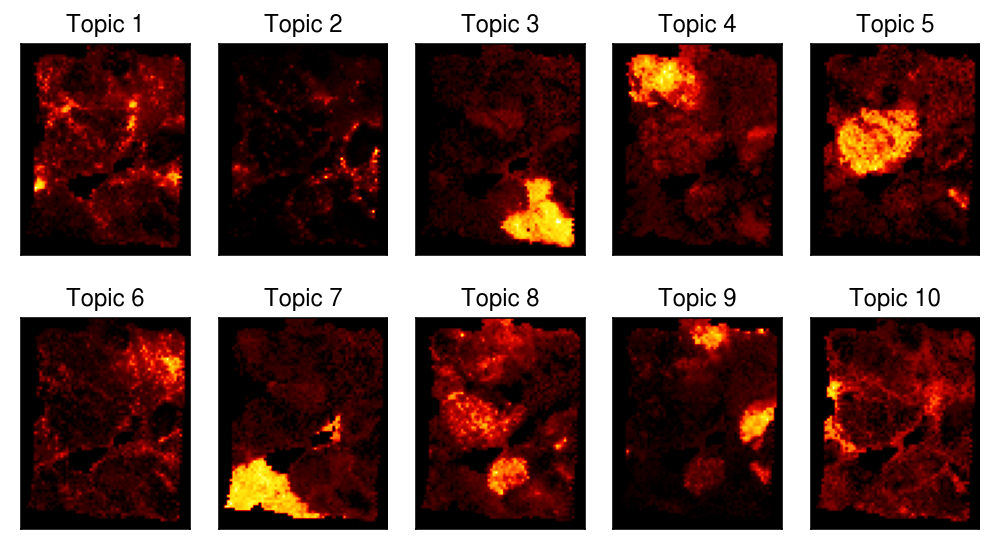
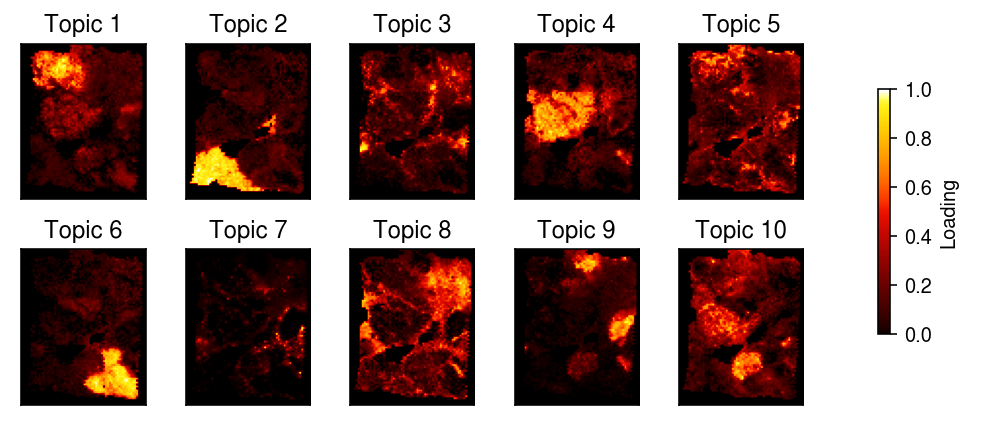
Update visium analysis

diff --git a/docs/spatial-gom.html b/docs/spatial-gom.html
@@ -1,7 +1,7 @@
 <!DOCTYPE html>
 <html lang="en">
 <head>
-<!-- 2021-04-22 Thu 10:55 -->
+<!-- 2021-05-30 Sun 16:20 -->
 <meta charset="utf-8">
 <meta name="viewport" content="width=device-width, initial-scale=1">
 <title>GOM model for spatial transcriptomic data</title>
@@ -270,6 +270,7 @@ al. 2019</a>).
 <pre class="src src-ipython"><span class="org-keyword">import</span> anndata
 <span class="org-keyword">import</span> numpy <span class="org-keyword">as</span> np
 <span class="org-keyword">import</span> pandas <span class="org-keyword">as</span> pd
+<span class="org-keyword">import</span> pickle
 <span class="org-keyword">import</span> scanpy <span class="org-keyword">as</span> sc
 <span class="org-keyword">import</span> scipy.sparse <span class="org-keyword">as</span> ss
 <span class="org-keyword">import</span> scipy.stats <span class="org-keyword">as</span> st
@@ -295,6 +296,7 @@ rpy2.robjects.pandas2ri.activate()
 
 <div class="org-src-container">
 <pre class="src src-ipython"><span class="org-keyword">import</span> colorcet
+<span class="org-keyword">import</span> matplotlib
 <span class="org-keyword">import</span> matplotlib.pyplot <span class="org-keyword">as</span> plt
 <span class="org-variable-name">plt.rcParams</span>[<span class="org-string">'figure.facecolor'</span>] = <span class="org-string">'w'</span>
 <span class="org-variable-name">plt.rcParams</span>[<span class="org-string">'font.family'</span>] = <span class="org-string">'Nimbus Sans'</span>
@@ -323,7 +325,7 @@ dat
 </div>
 
 <pre class="example">
-View of AnnData object with n_obs × n_vars = 3798 × 24865
+AnnData object with n_obs × n_vars = 3798 × 24923
 obs: 'barcode', 'in_tissue', 'row', 'col', 'pxl_row', 'pxl_col'
 var: 'gene', 'name', 'featuretype', 'n_cells'
 </pre>
@@ -341,19 +343,37 @@ Fit a topic model, ignoring spatial information.
 </div>
 
 <p>
+Write out the fitted model.
+</p>
+
+<div class="org-src-container">
+<pre class="src src-ipython"><span class="org-keyword">with</span> <span class="org-builtin">open</span>(<span class="org-string">'/scratch/midway2/aksarkar/singlecell/visium-k-10-topic-model.pkl'</span>, <span class="org-string">'wb'</span>) <span class="org-keyword">as</span> f:
+  pickle.dump(res, f)
+</pre>
+</div>
+
+<p>
 Look at the loadings on each topic, spatially organized.
 </p>
 
 <div class="org-src-container">
 <pre class="src src-ipython">plt.clf()
-<span class="org-variable-name">fig</span>, <span class="org-variable-name">ax</span> = plt.subplots(2, 5, sharex=<span class="org-constant">True</span>, sharey=<span class="org-constant">True</span>)
-fig.set_size_inches(7, 4)
-<span class="org-keyword">for</span> k, a <span class="org-keyword">in</span> <span class="org-builtin">enumerate</span>(ax.ravel()):
+<span class="org-variable-name">fig</span>, <span class="org-variable-name">ax</span> = plt.subplots(2, 6, sharex=<span class="org-constant">True</span>, sharey=<span class="org-constant">True</span>)
+fig.set_size_inches(7, 3)
+<span class="org-keyword">for</span> k, a <span class="org-keyword">in</span> <span class="org-builtin">enumerate</span>(ax[:,:5].ravel()):
   <span class="org-variable-name">temp</span> = ss.coo_matrix((res.rx2(<span class="org-string">'L'</span>)[:,k], (dat.obs[<span class="org-string">'row'</span>], dat.obs[<span class="org-string">'col'</span>] // 2)), shape=(80, 64))
   a.imshow(temp.A, cmap=colorcet.cm[<span class="org-string">'fire'</span>])
   a.set_title(f<span class="org-string">'Topic {k + 1}'</span>)
   a.set_xticks([])
   a.set_yticks([])
+<span class="org-keyword">for</span> a <span class="org-keyword">in</span> ax[:,5]:
+  a.axis(<span class="org-string">'off'</span>)
+<span class="org-variable-name">cb</span> = fig.colorbar(matplotlib.cm.ScalarMappable(norm=matplotlib.colors.Normalize(vmin=0, vmax=1),
+                                               cmap=colorcet.cm[<span class="org-string">'fire'</span>]),
+                  ax=ax[:,5].ravel(),
+                  anchor=(0, 0.5),
+                  shrink=0.75)
+cb.set_label(<span class="org-string">'Loading'</span>)
 fig.tight_layout()
 </pre>
 </div>
@@ -369,42 +389,110 @@ Look at the top (highest probability) genes in each topic.
 </p>
 
 <div class="org-src-container">
-<pre class="src src-ipython">pd.DataFrame({k: dat.var.iloc[np.argsort(-res.rx2(<span class="org-string">'F'</span>)[:,k])[:10]][<span class="org-string">'name'</span>].values <span class="org-keyword">for</span> k <span class="org-keyword">in</span> <span class="org-builtin">range</span>(10)})
+<pre class="src src-ipython"><span class="org-variable-name">freq_genes</span> = pd.DataFrame({k: dat.var.iloc[np.argsort(-res.rx2(<span class="org-string">'F'</span>)[:,k])[:10]][<span class="org-string">'name'</span>].values <span class="org-keyword">for</span> k <span class="org-keyword">in</span> <span class="org-builtin">range</span>(10)})
+freq_genes
 </pre>
 </div>
 
 <pre class="example">
-0      1        2        3       4       5        6      7       8  \
-0     CD74   IGKC   IGFBP5    COX6C   COX6C  COL1A1    RPL41  COX6C     MGP
-1      FTL  IGHG3    RPL41    RPL41   KRT19  COL1A2     KRT8    B2M   RPL41
-2      B2M  IGHG4     KRT8     KRT8   RPL41     FN1    RPLP1  HLA-B  IGFBP5
-3     APOE  IGLC2    COX6C    KRT19  IGFBP5    ACTB    KRT18  HLA-A   KRT19
-4   TMSB10  IGHG1    RPLP1    RPL30    CPB1   SPARC    KRT19  IFI27   GAPDH
-5    RPL41  IGHA1    KRT18      MIF  TMSB10  MALAT1  S100A11  KRT19   RPL30
-6   TMSB4X  IGLC1     FTH1    SERF2   ACTG1  IGFBP7    RPL13   IFI6    TFF3
-7    HLA-B   IGHM  S100A11    RPLP1   RPL30     B2M    RPL30  HLA-C    FTH1
-8  HLA-DRA  IGLC3    KRT19    ACTG1   RPLP1  COL3A1     FTH1  ISG15  S100A6
-9    HLA-A  RPLP1    RPL30  SLC39A6   RPL13   RPLP1     MUC1   FTH1     MIF
+0        1       2       3        4        5       6       7       8  \
+0    COX6C    RPL41    CD74   COX6C   MT-CO1   IGFBP5    IGKC  MT-CO3     MGP
+1   MT-CO1     KRT8     FTL   KRT19   MT-CO3     KRT8   IGHG3     FTL  IGFBP5
+2    RPL41    RPLP1     B2M   RPL41   MT-CO2    RPL41   IGHG4  COL1A1   RPL41
+3     KRT8    RPS27  TMSB10  IGFBP5  MT-ATP6    COX6C   IGLC2   KRT19   KRT19
+4    KRT19    KRT18   RPL41    CPB1   MT-ND4    RPS27   IGHG1  COL1A2   COX6C
+5   MT-ND1    KRT19    APOE  TMSB10   MT-ND3    KRT18   IGHA1   RPLP1   GAPDH
+6    SERF2  S100A11  TMSB4X   ACTG1   MT-ND1    RPLP1   IGLC1    KRT8   RPL30
+7  SLC39A6    RPL13   RPS27   RPL13   MT-CYB    KRT19    IGHM     MIF    TFF3
+8   MT-CO3     MUC1  EEF1A1   RPLP1   MT-ND2     FTH1   IGLC3   SERF2  MT-CO1
+9    ACTG1     FTH1    ACTB    KRT8    RPL41  S100A11  JCHAIN     FN1   RPS18
 
 9
-0  KRT19
-1    FTL
-2   KRT8
-3  RPLP1
-4    MIF
-5   APOE
-6  SERF2
-7  CRIP1
-8  RPL13
-9  RPL41
+0  COX6C
+1    B2M
+2  HLA-B
+3  HLA-A
+4  IFI27
+5  KRT19
+6   IFI6
+7   CD74
+8   FTH1
+9  HLA-C
 </pre>
+
+<p>
+Look at distinctive genes in each topic, i.e., genes with maximum minimum KL
+divergence from all other topics.
+</p>
+
+<div class="org-src-container">
+<pre class="src src-ipython"><span class="org-keyword">def</span> <span class="org-function-name">top_genes_idx</span>(F, k, num_genes=10):
+  <span class="org-variable-name">fk</span> = F[:,k].reshape(-1, 1)
+  <span class="org-variable-name">temp</span> = fk * (np.log(fk) - np.log(F)) - fk + F
+  <span class="org-keyword">return</span> np.argsort(-temp[:,np.arange(temp.shape[1]) != k].<span class="org-builtin">min</span>(axis=1))[:num_genes]
+
+<span class="org-variable-name">top_genes</span> = pd.DataFrame({k: dat.var.iloc[top_genes_idx(np.array(res.rx2(<span class="org-string">'F'</span>)), k)][<span class="org-string">'name'</span>].values <span class="org-keyword">for</span> k <span class="org-keyword">in</span> <span class="org-builtin">range</span>(10)})
+top_genes
+</pre>
+</div>
+
+<pre class="example">
+0       1         2        3        4         5      6       7  \
+0    COX6C  CXCL14    TMSB4X     CPB1   MT-CO1    CRISP3   IGKC  COL1A1
+1  SLC39A6   CCND1     KRT19    COX6C   MT-CO2   SLITRK6  IGHG3  COL1A2
+2   MT-ND1    AGR2      CD74   FCGR3B   MT-CO3  C6orf141  IGLC2   SPARC
+3   MT-CO1  TTLL12    IGFBP5      CFB  MT-ATP6    SERHL2  IGHG4     FN1
+4    RPS15   GFRA1     HLA-B  TNFSF10   MT-ND3     H3F3A  IGHG1  COL3A1
+5     DDR1   DEGS1   HLA-DRA     TFF3   MT-ND4    IGFBP5  IGHA1  LGALS1
+6      SCD  MT-ND1      KRT8    KRT19   MT-CYB      CD74  IGLC3  MT-CO3
+7    RPL17  TCEAL4       LYZ  COLEC12   MT-ND1     VTCN1  IGLC1   POSTN
+8     SNCG   ARMT1     KRT18  SLC39A6   MT-ND2     NUPR1  IGHG2  COL6A2
+9    RPL13    GNG5  HLA-DPB1    REPS2   MT-ND5   S100A13   IGHM   TAGLN
+
+8      9
+0         MGP  HLA-B
+1         ALB   IFI6
+2       S100G  COX6C
+3    SERPINA3  IFI27
+4  ZNF350-AS1  HLA-C
+5       GAPDH  HLA-A
+6        TFF3  ISG15
+7      S100A6  RPL13
+8        STC2   CD74
+9        CD74  RPS18
+</pre>
+
+<div class="org-src-container">
+<pre class="src src-ipython"><span class="org-variable-name">temp</span> = res.rx2(<span class="org-string">'F'</span>)[dat.var[<span class="org-string">'name'</span>].isin(<span class="org-builtin">set</span>(freq_genes.values.ravel()))]
+</pre>
+</div>
+
+<div class="org-src-container">
+<pre class="src src-ipython">plt.clf()
+plt.gcf().set_size_inches(7.5, 3)
+<span class="org-variable-name">im</span> = plt.imshow(temp.T, cmap=colorcet.cm[<span class="org-string">'bmy'</span>], norm=matplotlib.colors.LogNorm(vmin=temp.<span class="org-builtin">min</span>(), vmax=temp.<span class="org-builtin">max</span>()))
+plt.xlabel(<span class="org-string">'Gene'</span>)
+plt.ylabel(<span class="org-string">'Topic'</span>)
+plt.xticks(np.arange(temp.shape[0]), dat.var.loc[dat.var[<span class="org-string">'name'</span>].isin(<span class="org-builtin">set</span>(freq_genes.values.ravel())), <span class="org-string">'name'</span>].values, size=8, rotation=90)
+plt.yticks(np.arange(temp.shape[1]), 1 + np.arange(temp.shape[1]), size=8)
+<span class="org-variable-name">cb</span> = plt.colorbar(im, shrink=0.5)
+cb.set_label(<span class="org-string">'Relative gene expression'</span>)
+plt.tight_layout()
+</pre>
+</div>
+
+
+<div class="figure">
+<p><img src="figure/spatial-gom.org/visium-k-10-genes.png" alt="visium-k-10-genes.png">
+</p>
+</div>
 </div>
 </div>
 </div>
 </div>
 <div id="postamble" class="status">
 <p class="author">Author: Abhishek Sarkar</p>
-<p class="date">Created: 2021-04-22 Thu 10:55</p>
+<p class="date">Created: 2021-05-30 Sun 16:20</p>
 <p class="validation"><a href="http://validator.w3.org/check?uri=referer">Validate</a></p>
 </div>
 </body>

diff --git a/docs/index.html b/docs/index.html
@@ -1,7 +1,7 @@
 <!DOCTYPE html>
 <html lang="en">
 <head>
-<!-- 2021-04-11 Sun 18:39 -->
+<!-- 2021-05-30 Sun 16:20 -->
 <meta charset="utf-8">
 <meta name="viewport" content="width=device-width, initial-scale=1">
 <title>Single cell ideas</title>
@@ -269,6 +269,7 @@ analysis plus some related topics.
 <h2 id="orga0fd2f1">Single cell applications</h2>
 <div class="outline-text-2" id="text-orga0fd2f1">
 <ul class="org-ul">
+<li><a href="expr-var-struct.html">Learning the structure of RNA expression variation</a></li>
 <li><a href="expr-var-buffering.html">Buffering of RNA expression variation</a></li>
 <li><a href="pglmm.html">Poisson GLMM for differential expression</a></li>
 <li><a href="time-course.html">Fully unsupervised topic models of scRNA-seq time course data</a></li>
@@ -308,6 +309,7 @@ scRNA-seq data</a></li>
 <h2 id="org844768b">General methods development</h2>
 <div class="outline-text-2" id="text-org844768b">
 <ul class="org-ul">
+<li><a href="logistic-regression-labelling-errors.html">Logistic regression in the presence of error-prone labels</a></li>
 <li><a href="influence.html">Is eQTL analysis robust to removing some data points?</a></li>
 <li><a href="horseshoe.html">Empirical Bayes inference for the horseshoe prior</a></li>
 <li><a href="sparse-pois-fa.html">Sparse Poisson Factor Analysis</a></li>
@@ -336,7 +338,7 @@ scRNA-seq data</a></li>
 </div>
 <div id="postamble" class="status">
 <p class="author">Author: Abhishek Sarkar</p>
-<p class="date">Created: 2021-04-11 Sun 18:39</p>
+<p class="date">Created: 2021-05-30 Sun 16:20</p>
 <p class="validation"><a href="http://validator.w3.org/check?uri=referer">Validate</a></p>
 </div>
 </body>

diff --git a/docs/logistic-regression-labelling-errors.html b/docs/logistic-regression-labelling-errors.html
@@ -1,7 +1,7 @@
 <!DOCTYPE html>
 <html lang="en">
 <head>
-<!-- 2021-05-15 Sat 16:30 -->
+<!-- 2021-05-30 Sun 16:21 -->
 <meta charset="utf-8">
 <meta name="viewport" content="width=device-width, initial-scale=1">
 <title>Logistic regression in the presence of error-prone labels</title>
@@ -745,7 +745,7 @@ presence of misclassified binary responses. BMC Genet 14, 124
 </div>
 <div id="postamble" class="status">
 <p class="author">Author: Abhishek Sarkar</p>
-<p class="date">Created: 2021-05-15 Sat 16:30</p>
+<p class="date">Created: 2021-05-30 Sun 16:21</p>
 <p class="validation"><a href="http://validator.w3.org/check?uri=referer">Validate</a></p>
 </div>
 </body>

diff --git a/docs/expr-var-struct.html b/docs/expr-var-struct.html
@@ -1,7 +1,7 @@
 <!DOCTYPE html>
 <html lang="en">
 <head>
-<!-- 2021-04-30 Fri 13:52 -->
+<!-- 2021-05-30 Sun 16:21 -->
 <meta charset="utf-8">
 <meta name="viewport" content="width=device-width, initial-scale=1">
 <title>Learning the structure of RNA expression variation</title>
@@ -537,7 +537,7 @@ space and extra variability. Does this make sense?
 </div>
 <div id="postamble" class="status">
 <p class="author">Author: Abhishek Sarkar</p>
-<p class="date">Created: 2021-04-30 Fri 13:52</p>
+<p class="date">Created: 2021-05-30 Sun 16:21</p>
 <p class="validation"><a href="http://validator.w3.org/check?uri=referer">Validate</a></p>
 </div>
 </body>

diff --git a/docs/spatial-vae.html b/docs/spatial-vae.html
@@ -1,7 +1,7 @@
 <!DOCTYPE html>
 <html lang="en">
 <head>
-<!-- 2021-04-11 Sun 18:40 -->
+<!-- 2021-05-30 Sun 16:21 -->
 <meta charset="utf-8">
 <meta name="viewport" content="width=device-width, initial-scale=1">
 <title>Convolutional VAE for spatial transcriptomic data</title>
@@ -1280,7 +1280,7 @@ plt.tight_layout()
 </div>
 <div id="postamble" class="status">
 <p class="author">Author: Abhishek Sarkar</p>
-<p class="date">Created: 2021-04-11 Sun 18:40</p>
+<p class="date">Created: 2021-05-30 Sun 16:21</p>
 <p class="validation"><a href="http://validator.w3.org/check?uri=referer">Validate</a></p>
 </div>
 </body>
